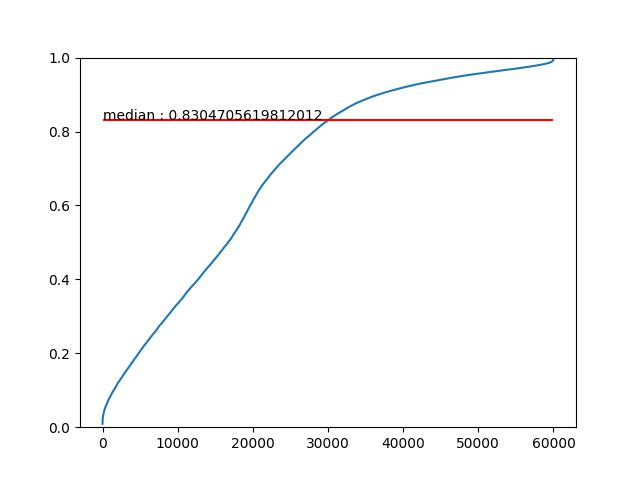
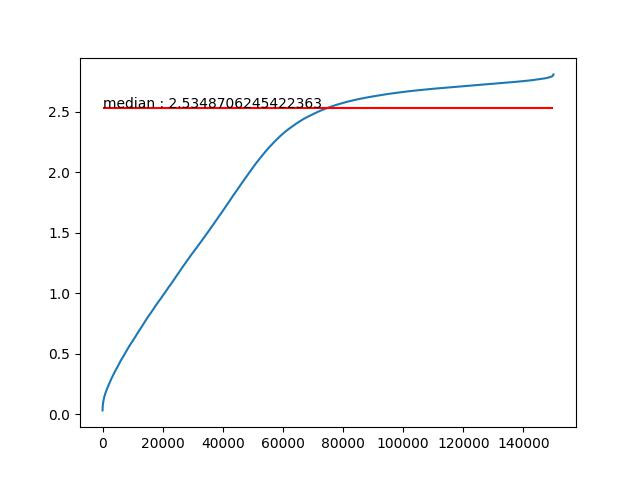
update re-dist version2 tool

diff --git a/tools/analysis/re-distribute-all2.py b/tools/analysis/re-distribute-all2.py
@@ -1,0 +1,167 @@
+import numpy as np
+import csv
+import pickle
+import argparse
+from collections import defaultdict
+
+
+CLASSES = [f"{i:0>4d}" for i in range(5000)]
+
+def parse_args():
+    parser = argparse.ArgumentParser(description='Ensemble Learning')
+    parser.add_argument('--pkla', help='Ensemble results')
+    parser.add_argument('--pklb', help='Ensemble results')
+    parser.add_argument('--L', default=27, type=int, help='Ensemble results')
+    parser.add_argument('--H', default=33, type=int, help='Ensemble results')
+    parser.add_argument('--out', default="pred_results.csv", help='output path')
+    args = parser.parse_args()
+    return args
+
+def load_pkl(pkl_path):
+    with open(pkl_path, 'rb') as pkl_file:
+        data = pickle.load(pkl_file)
+    return data
+
+def convert_data_dict2list(data_dict):
+    result_list = []
+    for filename, scores in data_dict.items():
+        pred_label = np.argmax(scores)
+        pred_class = CLASSES[pred_label]
+        result_list.append( [filename, pred_class, scores] )
+    return result_list
+
+
+def extract_data(data_list, L, H):
+    """获取以下有用的数据形式
+
+    class2sampleIdx_dict: {classes: sampleidx_list}
+    less_count_classes : 被预测次数小于 L 的类别list
+    less_count_classes : 被预测次数大于 H 的类别list
+    
+    """
+    print(f"{len(data_list)} samples have been found....")
+
+    class2sampleIdx_dict = defaultdict(list)
+    for i, (filename, classname, score) in enumerate( data_list ):
+        class2sampleIdx_dict[classname].append(i)
+
+    max_counts = 0
+    for classname in CLASSES:
+        max_counts = max(max_counts, len(class2sampleIdx_dict[classname]))
+
+    less_count_classes = defaultdict(list)
+    large_count_classes = defaultdict(list)
+    for classname in CLASSES:
+        if len(class2sampleIdx_dict[classname]) < L:
+            less_count_classes[len(class2sampleIdx_dict[classname])].append(classname)
+        elif len(class2sampleIdx_dict[classname]) > H:
+            large_count_classes[len(class2sampleIdx_dict[classname])].append(classname)
+
+    return  class2sampleIdx_dict, less_count_classes, large_count_classes
+
+
+def plot_scores(scores):
+    """画出最大 score 的分布, 返回中位数"""
+    import matplotlib.pyplot as plt
+
+    med = np.median(scores)  
+    scores_ = np.sort(scores)
+    assert scores is not scores_
+    # plt.ylim((0, 1))
+    plt.plot(range(len(scores_)), scores_)
+    plt.hlines(med, 0, len(scores_), colors="red")
+    plt.text(0, med, f'median : {med}')
+    plt.savefig("scores.jpg")
+    plt.show()
+    return med
+
+
+def plot_labels(class2sampleIdx_dict, dscp):
+    """画出label的分布"""
+    max_counts = 0
+    for classname in CLASSES:
+        max_counts = max(max_counts, len(class2sampleIdx_dict[classname]))
+    
+    counts = list(range(max_counts + 1))
+    count_dict = defaultdict(int)
+    for i in counts:
+        count_dict[i] = 0
+    for classname in CLASSES:
+        count_dict[len(class2sampleIdx_dict[classname])] += 1
+
+    numbers = list(count_dict.values())
+    import matplotlib.pyplot as plt
+
+    plt.bar(counts, numbers)
+    plt.savefig(f"{dscp}.jpg")
+    plt.show()
+
+
+def main():
+    args = parse_args()
+    L = args.L
+    H = args.H
+    
+    data_dicta = load_pkl(args.pkla) if args.pkla else dict()
+    data_dictb = load_pkl(args.pklb) if args.pklb else dict()
+    data_dict = {**data_dicta, **data_dictb}
+
+    result_list = convert_data_dict2list(data_dict) # result_list is list of [filename, pred_class, scores]
+    (class2sampleIdx_dict, less_count_classes, 
+        large_count_classes) = extract_data(result_list, L, H)
+    plot_labels(class2sampleIdx_dict, "target_label_before")
+    
+    all_scores= np.stack([r[2] for r in result_list], axis=0)  # (N, M) N = num_samplers, M = num_classes
+    all_pred_labels = np.array([int(r[1]) for r in result_list])  # 所有sample的 pred_labels
+    all_pred_scores = all_scores.max(axis=1)                      # 所有sample的 pred_scores
+    assert len(all_pred_labels) == len(all_pred_scores), f"{len(all_pred_labels)} != {len(all_pred_scores)}"
+    med = plot_scores(all_pred_scores)
+    
+    print("Process less count classes")
+    for count, classname_list in less_count_classes.items():
+        for classname in classname_list:
+            class_idx = int(classname)
+            scores = all_scores[:, class_idx]  # 预测该类别的所有分数
+            scores[all_pred_labels==class_idx] = 0  # 排除掉预测为该classname的sample
+            topk = L - count                                  # 需补偿的个数 = L - cur_count
+            indxs = np.argpartition(scores, -topk)[-topk:]
+            for ind in indxs:
+                if all_pred_scores[int(ind)] > med:  # 当其本身的预测分数非常高的时候，不做处理
+                    continue
+                else:
+                    result_list[int(ind)][1] = classname
+
+    print("Process large count classes")
+    for count, classname_list in large_count_classes.items():
+        for classname in classname_list:
+            class_idx = int(classname)
+            scores = all_scores[:, class_idx]
+            sample_idxs = class2sampleIdx_dict[classname]
+            # 预测为当前 classname 的所有samper的得分， 取负方便取最小的topk
+            samper_scores = -1 * scores[sample_idxs]
+            topk = count - H                           # 需删除的个数 = cur_count - H
+            indxs = np.argpartition(samper_scores, -topk)[-topk:]  # 因为取负了，这里还是使用topk得到预测分数最小的topk个
+            for ind in indxs:
+                sample_idx = sample_idxs[ind]
+                scores = all_scores[sample_idx,:]
+                if scores[class_idx] > med:               # 如果预测当前classname时，分数比较高，则不做处理
+                    continue
+                scores[class_idx] = 0                    # 否则，取剩下预测的最高预测
+                new_pred_label = np.argmax(scores)
+                result_list[sample_idx][1] = CLASSES[new_pred_label]
+
+    class2sampleIdx_dict_after = defaultdict(list)
+    for i, (filename, classname, score) in enumerate( result_list ):
+        class2sampleIdx_dict_after[classname].append(i)
+
+    plot_labels(class2sampleIdx_dict_after, "target_label_after")
+
+    assert args.out and args.out.endswith(".csv") 
+    with open(args.out, "w") as csvfile:
+        writer = csv.writer(csvfile)
+        for result in result_list:
+            if result[0] in data_dictb:
+                writer.writerow(result[:2])
+
+
+main()
